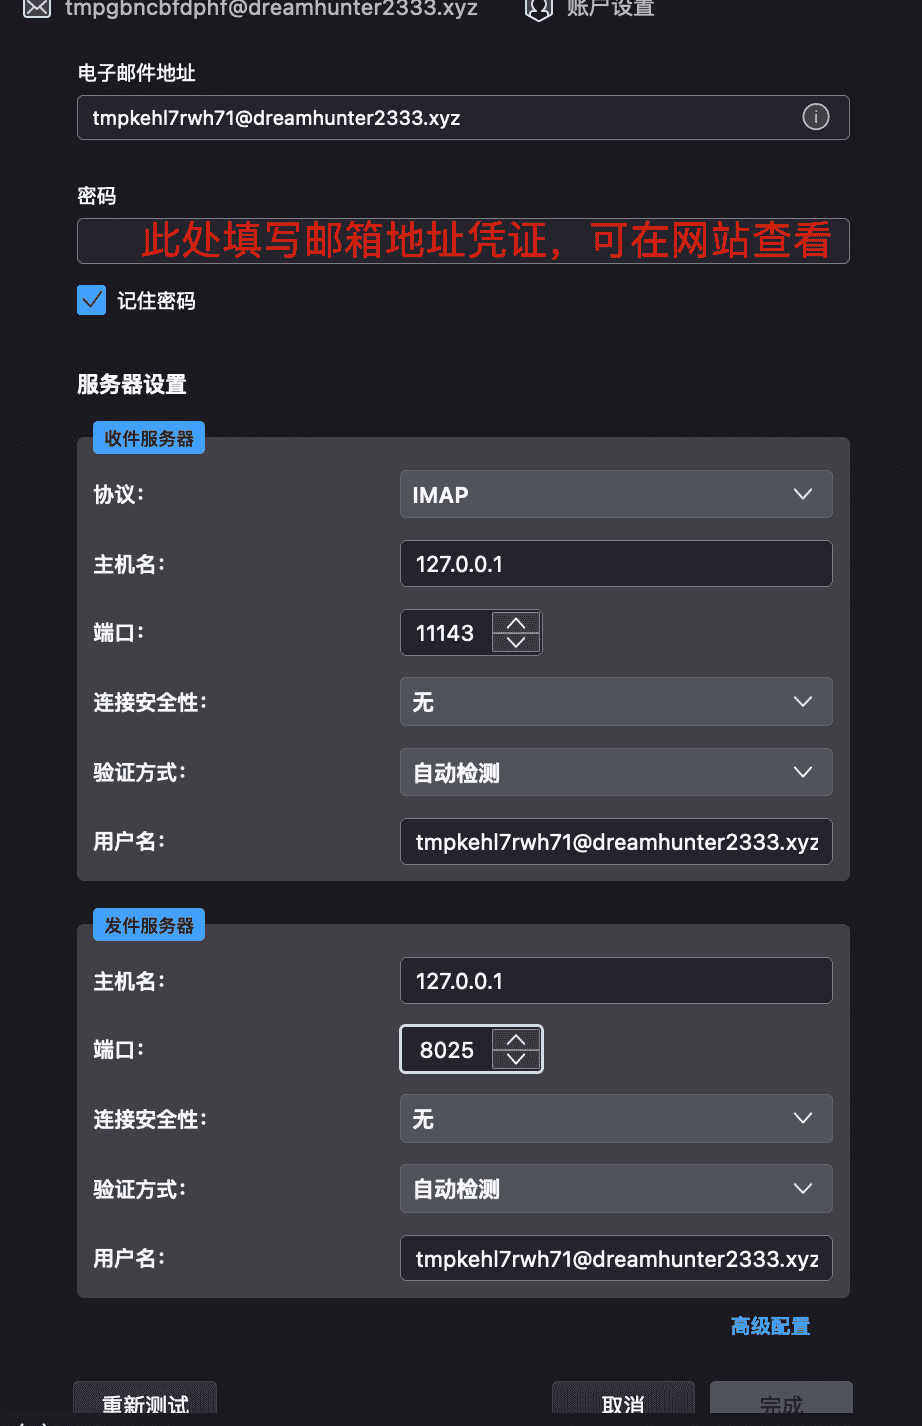
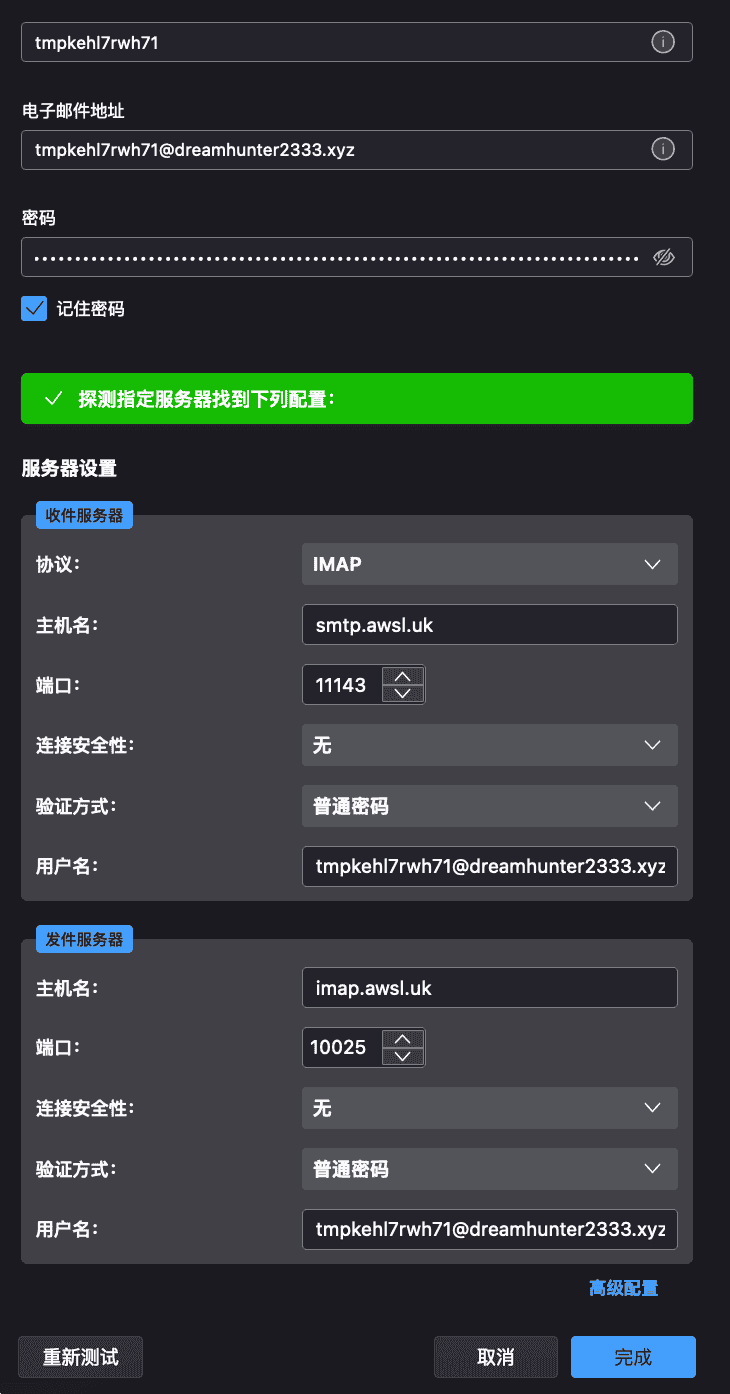
fix: imap server (#227)

diff --git a/smtp_proxy_server/imap_server.py b/smtp_proxy_server/imap_server.py
@@ -103,7 +103,7 @@ class SimpleMailbox:
     def fetch(self, messages, uid):
         start, end = messages.ranges[0]
         start = max(start, 1)
-        if start > self.message_count:
+        if self.message_count > 0 and start > self.message_count:
             return []
         res = requests.get(
             f"{settings.proxy_url}/api/mails?limit=20&offset={start - 1}", headers={

diff --git a/vitepress-docs/docs/zh/guide/cli/pages.md b/vitepress-docs/docs/zh/guide/cli/pages.md
@@ -15,6 +15,8 @@ cp .env.example .env.prod
 例如: `VITE_API_BASE=https://xxx.xxx.workers.dev`
 
 ```bash
+# 请修改为你的版本号, 可以不填
+# export VITE_VERSION=0.0.0
 pnpm build --emptyOutDir
 # 根据提示创建 pages
 pnpm run deploy

diff --git a/vitepress-docs/docs/zh/guide/feature/config-smtp-proxy.md b/vitepress-docs/docs/zh/guide/feature/config-smtp-proxy.md
@@ -49,4 +49,6 @@ services:
 
 下载 [Thunderbird](https://www.thunderbird.net/en-US/)
 
+密码填写 `邮箱地址凭证`
+
 ![imap](/feature/imap.png)